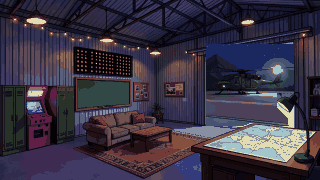
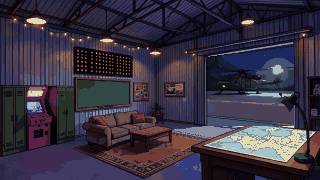
fix(heli-base): the view out of the gate fits the slanting gate, the boards lie on the slanted wall (doc 92 B1)
The outside view showed as a rectangle over the gate's slanting beam and the desk
lamp kept the room's old floodlit apron as a bright wedge in it. It now shows only in
the opening under the beam, with a pixel of shadow along the frame, and only the
lamp's head stays in front; the pictures keep their palette. The scoreboard and the
chalkboard are laid onto the wall towards its vanishing point (DockLayout.wall), and
wall columns are laid on whole device pixels, so the boards no longer turn
see-through on small windows (the jungle camp's too).

diff --git a/src/render/base/dock-wall.ts b/src/render/base/dock-wall.ts
@@ -1,8 +1,10 @@
 import type { AreaRect } from '../../data/base-areas';
+import type { WallTilt } from '../../data/base-docks';
 
 // Boards on a wall seen at an angle (doc 95): a board is drawn flat into a scratch canvas, then laid onto the picture's
-// wall column by column, each column a little shorter towards the far edge — at eye level a wall keeps its vertical
-// edges, so this is the wall's perspective without any 3-D.
+// wall column by column, each column a little shorter towards the far edge — a wall keeps its vertical edges, so this is
+// the wall's perspective without any 3-D. Shrunk evenly about the middle (doc 95), or towards the wall's vanishing point
+// when the eye is not level with the board (doc 92 B1: both edges of the helicopter base's scoreboard fall to the right).
 
 let flat: HTMLCanvasElement | null = null;
 
@@ -14,11 +16,23 @@ function scratchFor(w: number, h: number): CanvasRenderingContext2D | null {
   return flat.getContext('2d');
 }
 
-/** Draws `paint` into rect r on a wall whose right edge is `slant` × r.h shorter at the top and the bottom (0: flat). */
-export function onWall(ctx: CanvasRenderingContext2D, r: AreaRect, slant: number, paint: (g: CanvasRenderingContext2D, at: AreaRect) => void): void {
+/** Top and height of column i (0 … r.w − 1) of a board in rect r, its left edge at full size. */
+export function wallColumn(r: AreaRect, tilt: WallTilt | undefined, i: number): { y: number; h: number } {
+  if (!tilt) return { y: r.y, h: r.h };
+  if ('slant' in tilt) {
+    const inset = tilt.slant * r.h * ((i + 0.5) / r.w);
+    return { y: r.y + inset, h: r.h - 2 * inset };
+  }
+  const { x: vx, y: vy } = tilt.vanish;
+  const k = (vx - (r.x + i + 0.5)) / (vx - r.x);
+  return { y: vy + (r.y - vy) * k, h: r.h * k };
+}
+
+/** Draws `paint` into rect r on a wall seen at an angle (flat without a tilt). */
+export function onWall(ctx: CanvasRenderingContext2D, r: AreaRect, tilt: WallTilt | undefined, paint: (g: CanvasRenderingContext2D, at: AreaRect) => void): void {
   const k = Math.max(1, Math.abs(ctx.getTransform().a));
-  const g = slant === 0 ? null : scratchFor(Math.ceil(r.w * k), Math.ceil(r.h * k));
-  if (!g || !flat) {
+  const g = tilt ? scratchFor(Math.ceil(r.w * k), Math.ceil(r.h * k)) : null;
+  if (!tilt || !g || !flat) {
     paint(ctx, r);
     return;
   }
@@ -26,8 +40,25 @@ export function onWall(ctx: CanvasRenderingContext2D, r: AreaRect, slant: number
   g.clearRect(0, 0, flat.width, flat.height);
   g.setTransform(k, 0, 0, k, 0, 0);
   paint(g, { x: 0, y: 0, w: r.w, h: r.h });
-  for (let i = 0; i < r.w; i++) {
-    const inset = slant * r.h * ((i + 0.5) / r.w);
-    ctx.drawImage(flat, i * k, 0, k, r.h * k, r.x + i, r.y + inset, 1, r.h - 2 * inset);
+  layColumns(ctx, flat, k, r, tilt);
+}
+
+/** One device pixel wide columns on whole device pixels: a column of a logical pixel on a canvas scaled below 1 would
+ *  only half-cover its pixels and let the picture show through. */
+function layColumns(ctx: CanvasRenderingContext2D, src: HTMLCanvasElement, k: number, r: AreaRect, tilt: WallTilt): void {
+  const t = ctx.getTransform();
+  const x0 = Math.round(t.a * r.x + t.e);
+  const x1 = Math.round(t.a * (r.x + r.w) + t.e);
+  ctx.save();
+  ctx.setTransform(1, 0, 0, 1, 0, 0);
+  ctx.imageSmoothingEnabled = false;
+  for (let dx = x0; dx < x1; dx++) {
+    const u = (dx + 0.5 - t.e) / t.a - r.x; // the logical column under this device column's centre
+    const c = wallColumn(r, tilt, u - 0.5);
+    const top = Math.round(t.d * c.y + t.f);
+    const bottom = Math.round(t.d * (c.y + c.h) + t.f);
+    const sx = Math.min(src.width - 1, Math.max(0, Math.floor(u * k)));
+    if (bottom > top) ctx.drawImage(src, sx, 0, 1, r.h * k, dx, top, 1, bottom - top);
   }
+  ctx.restore();
 }

diff --git a/tests/unit/base-docks.test.ts b/tests/unit/base-docks.test.ts
@@ -2,6 +2,7 @@ import { describe, it, expect } from 'vitest';
 import { areaDef, areaIds, BASE_AREAS, baseAreas, baseLookOf } from '../../src/data/base-areas';
 import { CARRIER_AREAS, CARRIER_LAYOUT, HELI_LAYOUT, JUNGLE_LAYOUT, scaleAt, SEA_LAYOUT, SPACE_LAYOUT } from '../../src/data/base-docks';
 import { areaAt, arrivedAt, neighbour, walkerAt, walkerAtArea } from '../../src/game/base-hangar';
+import { wallColumn } from '../../src/render/base/dock-wall';
 
 // The home docks (doc 73): the base wears the look of the map the pilot came from; each look has its own geometry.
 
@@ -127,11 +128,43 @@ describe('Sea lounge (doc 93)', () => {
 
 describe('Jungle camp (doc 95)', () => {
   it('lays the boards onto the hut wall seen at an angle, the hut spots on one row', () => {
-    expect(JUNGLE_LAYOUT.slant).toBeGreaterThan(0);
-    expect(JUNGLE_LAYOUT.slant).toBeLessThan(0.2);
+    const tilt = JUNGLE_LAYOUT.wall;
+    if (!tilt || !('slant' in tilt)) throw new Error('the hut wall has a slant');
+    expect(tilt.slant).toBeGreaterThan(0);
+    expect(tilt.slant).toBeLessThan(0.2);
+    const r = JUNGLE_LAYOUT.slate;
+    const far = wallColumn(r, tilt, r.w - 1);
+    expect(far.y - r.y).toBeCloseTo(r.y + r.h - (far.y + far.h), 6); // shrunk evenly about the middle
     const jungle = baseAreas('jungle');
     const row = ['locker', 'photos', 'lab', 'ladder', 'chalk'] as const;
     for (const id of row) expect(areaDef(jungle, id).standY, id).toBe(520);
     for (const id of row) expect(areaDef(jungle, id).via, id).toBe(520); // up the track's edge, then along the hut
+  });
+});
+
+describe('Helicopter base boards on the slanted wall (doc 92 B1)', () => {
+  it('shrinks the scoreboard and the chalkboard towards the wall\'s vanishing point on the right', () => {
+    const tilt = HELI_LAYOUT.wall;
+    if (!tilt || !('vanish' in tilt)) throw new Error('the heli wall has a vanishing point');
+    const { board, slate } = HELI_LAYOUT;
+    expect(tilt.vanish.x).toBeGreaterThan(slate.x + slate.w); // off to the right, beyond both boards
+    expect(tilt.vanish.y).toBeGreaterThan(board.y + board.h); // eye level below the scoreboard …
+    expect(tilt.vanish.y).toBeLessThan(slate.y + slate.h); // … and across the chalkboard
+    const near = wallColumn(board, tilt, 0);
+    expect(near.y).toBeCloseTo(board.y, 0);
+    expect(near.h).toBeCloseTo(board.h, 0);
+    const far = wallColumn(board, tilt, board.w - 1);
+    expect(far.h).toBeLessThan(board.h * 0.85);
+    expect(far.y).toBeGreaterThan(215); // the picture's scoreboard top drops to about y 220 at its right end
+    expect(far.y).toBeLessThan(228);
+    const slateFar = wallColumn(slate, tilt, slate.w - 1);
+    expect(slateFar.y).toBeGreaterThan(slate.y); // above eye level the top drops …
+    expect(slateFar.y + slateFar.h).toBeLessThan(slate.y + slate.h); // … below it the bottom rises
+    expect(far.y + far.h).toBeLessThan(slateFar.y + 8); // the boards don't run into each other
+  });
+
+  it('draws a flat wall unchanged', () => {
+    const r = { x: 10, y: 20, w: 30, h: 40 };
+    expect(wallColumn(r, undefined, 29)).toEqual({ y: 20, h: 40 });
   });
 });

diff --git a/src/data/base-docks.ts b/src/data/base-docks.ts
@@ -10,6 +10,12 @@ import { PILOT_FLOOR_Y, type AreaRect, type AreaTable, type BaseAreaDef, type Ba
 const area = (id: BaseAreaId, row: BaseAreaDef['row'], hot: AreaRect, plate: { x: number; y: number }, standX: number, deep?: { y: number; via?: number }): BaseAreaDef =>
   ({ id, row, hot, plate, standX, ...(deep ? { standY: deep.y, via: deep.via ?? standX } : {}) });
 
+/**
+ * How a wall with boards on it is seen: its far (right) edge `slant` × the board's height shorter at the top and at the
+ * bottom, evenly about the middle (doc 95), or running away to a vanishing point in logical px (doc 92 B1).
+ */
+export type WallTilt = { slant: number } | { vanish: { x: number; y: number } };
+
 export interface DockLayout {
   /** The picture's scoreboard: world 1's flip board covers it, `boardRows` rows of tiles (the ladder's three, blank
    *  rows below on a tall board). */
@@ -17,9 +23,9 @@ export interface DockLayout {
   boardRows: number;
   /** The picture's chalkboard: world 1's framed chalkboard covers it. */
   slate: AreaRect;
-  /** Boards on a wall seen at an angle (doc 95): the flip board's and the chalkboard's right edges are this fraction of
-   *  their height shorter at the top and at the bottom; they are laid onto the wall column by column. */
-  slant?: number;
+  /** Boards on a wall seen at an angle (doc 95, doc 92 B1): the flip board and the chalkboard are laid onto the wall
+   *  column by column; flat when missing. */
+  wall?: WallTilt;
   /** The TV cart's footprint (left, floor line); null where the picture has its own TV (`picturedTv`). */
   tv: { x: number; base: number } | null;
   /** The picture's own TV (doc 93): its screen, where the game plays the TV's picture, and the video recorder's clock. */
@@ -86,6 +92,8 @@ export const HELI_LAYOUT: DockLayout = {
   board: { x: 300, y: 190, w: 226, h: 112 },
   boardRows: 3,
   slate: { x: 300, y: 312, w: 300, h: 126 }, // world 1's chalkboard over the picture's and the first cork board, as wide as it wants
+  // The wall runs away to the right: the picture's scoreboard and chalkboard edges meet about here (doc 92 B1).
+  wall: { vanish: { x: 1400, y: 355 } },
   tv: { x: 660, base: 522 },
   neon: { x: 104, y: 296, w: 104, h: 40 },
   globe: null,
@@ -172,7 +180,7 @@ export const JUNGLE_LAYOUT: DockLayout = {
   board: { x: 144, y: 216, w: 168, h: 74 },
   boardRows: 3,
   slate: { x: 128, y: 314, w: 192, h: 126 },
-  slant: 0.05,
+  wall: { slant: 0.05 },
   tv: null,
   picturedTv: { screen: { x: 1134, y: 450, w: 60, h: 80 }, clock: { x: 1150, y: 576 } },
   neon: { x: 8, y: 228, w: 104, h: 34 },

diff --git a/src/render/base/dock.ts b/src/render/base/dock.ts
@@ -150,8 +150,8 @@ export function drawDock(ctx: CanvasRenderingContext2D, look: DockLook, v: Hanga
   ctx.restore();
   const L = LAYOUT[look];
   const rows = L.boardRows > v.board.length ? [...v.board, ...Array<string>(L.boardRows - v.board.length).fill('')] : v.board;
-  onWall(ctx, L.slate, L.slant ?? 0, (g, at) => drawDockChalkboard(g, at, v.chalk.cells, v.chalk.version));
-  onWall(ctx, L.board, L.slant ?? 0, (g, at) => drawDockFlipBoard(g, at, rows, v.t));
+  onWall(ctx, L.slate, L.wall, (g, at) => drawDockChalkboard(g, at, v.chalk.cells, v.chalk.version));
+  onWall(ctx, L.board, L.wall, (g, at) => drawDockFlipBoard(g, at, rows, v.t));
   drawCast(ctx, gr.G, { t: v.t, walker: v.walker, face: v.face, crew: false, scale: scaleAt(L, v.walker.y) });
   const front = img && L.front ? frontLayer(look, file, img, gr) : null; // the pilot walks behind it (doc 92)
   if (front) drawFront(ctx, front, gr);

diff --git a/dev/heli-plates.py b/dev/heli-plates.py
@@ -6,9 +6,12 @@ Usage: python3 -I dev/heli-plates.py <room-day> <room-evening> <room-night> <out
 The rooms are 1280 x 720 renders of the "Top Gun pixel scene" workflows' pixel branch (the night room K2 with its chalkboard
 widened, day and evening its frozen edits): each is sampled at its art-pixel centres onto the 320 x 180 grid. The outside
 views are pixel-branch renders of the view out of the gate (K1's, cut out of it; day and evening its frozen edits), on
-their own art grid: each is box-scaled into the gate (GATE, art px). Each picture is quantized to 48 colours of its own
-(median cut, no dither) and saved as heli-<light>.png. heli-front.png marks the map table and its lamp (white): the pixels
-the game draws again over the pilot.
+their own art grid: each is box-scaled into the gate's box (GATE, art px) but shows only in the opening — under the
+slanting beam (BEAM, measured on the night room), between the posts — with a pixel of shadow along the beam and the left
+post. In front of it only the desk lamp's head stays the room's (the night room's dark pixels in the lamp's outline), not
+the room's own floodlit apron around it. Each picture is quantized to 48 colours of its own (median cut, no dither) and
+saved as heli-<light>.png. heli-front.png marks the map table and its lamp (white): the pixels the game draws again over
+the pilot.
 """
 import os
 import sys
@@ -17,7 +20,10 @@ from PIL import Image, ImageDraw
 
 GRID = (320, 180)
 COLOURS = 48
-GATE = (206, 44, 294, 126)  # the open gate's opening, art px (x0, y0, x1, y1)
+GATE = (206, 44, 294, 126)  # the box the outside view is scaled into, art px (x0, y0, x1, y1)
+# The beam over the gate slants: its lower edge runs from (206, 57) at the left post to (292, 45) at the right (doc 92 B1).
+BEAM = ((206, 57), (292, 45))
+DARK = 70  # the lamp head's pixels are darker than this (luma)
 LIGHTS = ('day', 'evening', 'night')
 # The map table's top and front, and the lamp on it, as polygons in logical px (1280 x 720).
 TABLE = [(768, 590), (1000, 492), (1270, 520), (1280, 520), (1280, 720), (786, 720), (768, 640)]
@@ -29,15 +35,62 @@ def art(path, size=GRID):
     return im.resize(size, Image.NEAREST, box=(0, 0, size[0] * 4, size[1] * 4))
 
 
-def build(room_path, out_path, keep, dest):
+def beam_y(x):
+    (ax, ay), (bx, by) = BEAM
+    return round(ay + (by - ay) * (x - ax) / (bx - ax))
+
+
+def opening():
+    """The gate's opening (white): under the slanting beam, between the posts, down to the threshold."""
+    m = Image.new('L', GRID, 0)
+    d = ImageDraw.Draw(m)
+    x0, _, x1, y1 = GATE
+    for x in range(x0, x1):
+        d.line([(x, beam_y(x)), (x, y1 - 1)], fill=255)
+    return m
+
+
+def lamp_head(night_room, gate):
+    """The desk lamp's head and arm where they stand in front of the opening: the night room's dark pixels there."""
+    outline = Image.new('L', GRID, 0)
+    ImageDraw.Draw(outline).polygon([(x / 4, y / 4) for x, y in LAMP], fill=255)
+    dark = night_room.convert('L').point(lambda v: 255 if v < DARK else 0)
+    return Image.composite(dark, Image.new('L', GRID, 0), Image.composite(outline, Image.new('L', GRID, 0), gate))
+
+
+def shaded(view):
+    """The view with a pixel of shadow under the beam and inside the left post, so it sits behind the frame."""
+    out = view.copy()
+    px = out.load()
+    x0, y0, x1, _ = GATE
+    for x in range(x0, x1):
+        for dy, k in ((0, 0.55), (1, 0.8)):
+            y = beam_y(x) - y0 + dy
+            r, g, b = px[x - x0, y]
+            px[x - x0, y] = (int(r * k), int(g * k), int(b * k))
+    for y in range(beam_y(x0) - y0, out.height):
+        for dx, k in ((0, 0.6), (1, 0.85)):
+            r, g, b = px[dx, y]
+            px[dx, y] = (int(r * k), int(g * k), int(b * k))
+    return out
+
+
+def build(room_path, out_path, gate, head, dest):
     img = art(room_path)
     x0, y0, x1, y1 = GATE
     view = Image.open(out_path).convert('RGB')
     view = view.resize((view.width // 8, view.height // 8), Image.NEAREST, box=(0, 0, view.width // 8 * 8, view.height // 8 * 8)) if view.width > 200 else view
+    fitted = view.resize((x1 - x0, y1 - y0), Image.BOX)
+    # The palette is the one the first version had (the view's whole box pasted, the lamp's outline kept), so the room
+    # keeps its colours exactly; only the opening changes.
+    first = img.copy()
+    first.paste(fitted, (x0, y0))
+    palette = Image.composite(img, first, front_mask()).quantize(colors=COLOURS, method=Image.Quantize.MEDIANCUT, dither=Image.Dither.NONE)
     outside = img.copy()
-    outside.paste(view.resize((x1 - x0, y1 - y0), Image.BOX), (x0, y0))
-    img = Image.composite(img, outside, keep)  # the lamp in front of the gate stays the room's
-    img.quantize(colors=COLOURS, method=Image.Quantize.MEDIANCUT, dither=Image.Dither.NONE).save(dest, optimize=True)
+    outside.paste(shaded(fitted), (x0, y0))
+    shows = Image.composite(Image.new('L', GRID, 0), gate, head)  # the opening, minus the lamp head in front of it
+    img = Image.composite(outside, img, shows)
+    img.quantize(palette=palette, dither=Image.Dither.NONE).save(dest, optimize=True)
     print(dest, os.path.getsize(dest), 'bytes')
 
 
@@ -53,8 +106,10 @@ if __name__ == '__main__':
     rooms, outs, out_dir = sys.argv[1:4], sys.argv[4:7], sys.argv[7]
     os.makedirs(out_dir, exist_ok=True)
     keep = front_mask()
+    gate = opening()
+    head = lamp_head(art(rooms[2]), gate)
     for light, r, o in zip(LIGHTS, rooms, outs):
-        build(r, o, keep, os.path.join(out_dir, f'heli-{light}.png'))
+        build(r, o, gate, head, os.path.join(out_dir, f'heli-{light}.png'))
     dest = os.path.join(out_dir, 'heli-front.png')
     keep.save(dest, optimize=True)
     print(dest, os.path.getsize(dest), 'bytes')

diff --git a/.mdd/docs/92-heli-base-picture.md b/.mdd/docs/92-heli-base-picture.md
@@ -11,6 +11,7 @@ source_files:
   - src/render/base/dock.ts
   - src/render/base/dock-carrier.ts
   - src/render/base/dock-front.ts
+  - src/render/base/dock-wall.ts
   - src/game/base-hangar.ts
   - src/render/base/cast.ts
   - src/scenes/hangar-base.ts
@@ -26,7 +27,7 @@ test_files:
   - tests/unit/base-docks.test.ts
   - tests/unit/base-hangar.test.ts
 data_flow: reads-existing
-last_synced: 2026-11-08
+last_synced: 2026-11-09
 status: complete
 phase: all
 mdd_version: 11
@@ -61,7 +62,12 @@ table in the foreground go together.
   board; the second cork board is the picture wall.
 - **Outside the gate** is K1's view — the helicopter on the lit helipad, mountains, moon and stars — cut out of K1 and
   pasted into K2's gate (K2's own helicopter had two tails). Evening and day are that view relit with the frozen edit, so
-  the helicopter and the mountains stay.
+  the helicopter and the mountains stay. **Only in the opening** (B1, 2026-11-09): the beam over the gate slants — its
+  lower edge runs from (206, 57) at the left post to (292, 45) at the right, art px, measured on the night room — so the
+  view shows only under it and between the posts, with a pixel of shadow along the beam and the left post; in front of it
+  only the desk lamp's head and arm stay the room's (the night room's dark pixels in the lamp's outline), no longer the
+  room's floodlit apron around it, which had cut a bright wedge into the view. The pictures keep their palette (the first
+  version's), so the room outside the opening keeps its colours.
 - **Evening and day** of the room: the frozen edit of the night room (denoise 0.75), the outside pasted in per light. On
   the M1 the frozen edit runs at 640 × 360 (half size; the art grid is 320 × 180 anyway): at 1280 × 720 it swapped for
   over 45 minutes, at half size it takes about 7.
@@ -72,6 +78,12 @@ table in the foreground go together.
 
 - Map 3's base is now the look `heli` (`baseLookOf(3)`), drawn like the other picture looks (doc 73): world 1's flip board
   and chalkboard over the picture's, the TV cart and the joystick neon in code, the brackets, no name plates.
+- **Boards on the slanted wall** (B1): the back wall runs away to the right and the eye is below the scoreboard, so both
+  of its edges fall to the right — the scoreboard's and the chalkboard's edges in the picture meet at about (1400, 355).
+  The flip board and the chalkboard are laid onto the wall towards that vanishing point (`DockLayout.wall`,
+  `{ vanish }`; `wallColumn`, `onWall`, `dock-wall.ts`): each column shrinks towards it, the left edges at full size.
+  Columns are laid one device pixel wide on whole device pixels; a column of one logical pixel on a canvas scaled below
+  1 only half-covered its pixels and let the picture show through the boards (the jungle camp's too).
 - **Areas:** FUN MISSIONS the arcade, TV the cart, LOCKER the lockers, PICTURE WALL the cork board, LOADOUT the open gate
   with the helicopter, LADDER the scoreboard, CHALKBOARD the chalkboard, **EXIT · MAP the map table**.
 - **Walk-behind:** the map table stands in front of the pilot's walk line. Its pixels (the mask `heli-front.png`, white =
@@ -107,3 +119,13 @@ table in the foreground go together.
 - No look needs a walk-behind mask besides the helicopter base's map table: the lanes and spots keep clear of the couches,
   the tables and the TV cart (the cast is drawn over the picture and the cart).
 - The **jungle base** has been reworked as the jungle camp with its own depth (doc 95: horizon 370, pilot 0.95).
+
+## Known Issues
+
+(none)
+
+## Bugs
+
+| ID | Description | Status | Fixed In | Reported | Fixed |
+|----|-------------|--------|----------|----------|-------|
+| B1 | The view out of the gate is a rectangle pasted into a gate whose top beam slants: its upper-left corner sticks out over the beam, it looks pasted in, and the desk lamp's kept light cone (the room's old floodlit floor) cuts into it — in all three lights. The scoreboard and the chalkboard are drawn in full front view on a wall seen at an angle. | Fixed | feat/world-intros | 2026-11-09 | 2026-11-09 |

diff --git a/.mdd/docs/95-jungle-camp-picture.md b/.mdd/docs/95-jungle-camp-picture.md
@@ -60,8 +60,9 @@ second round (L, M) the owner took **L121** — *"can you use the chalkboard at 
   window, LADDER the scoreboard, CHALKBOARD the chalkboard, **EXIT · MAP the map table**. The code-drawn globe is gone.
 - **Boards on a slanted wall:** the hut's wall is seen at an angle, so the far edges of its boards are shorter. World 1's
   flip board and chalkboard are drawn flat into a scratch canvas and laid onto the wall column by column, each column a
-  little shorter towards the right (`DockLayout.slant`, the fraction of the height at the far edge; `onWall`,
-  `dock-wall.ts`). A wall at eye level keeps its vertical edges, so no 3-D is needed. The other looks have no slant.
+  little shorter towards the right (`DockLayout.wall = { slant }`, the fraction of the height at the far edge; `onWall`,
+  `dock-wall.ts`). A wall keeps its vertical edges, so no 3-D is needed. The helicopter base's wall runs away to a
+  vanishing point instead (doc 92 B1); the other looks are flat.
 - **The TV** is the picture's own (`picturedTv`, doc 93).
 - **Depth** (doc 92): horizon 370, the pilot 0.95 on the front line, which runs behind the board-game table's corner, the
   map table and the TV (all walk-behind). The hut's spots — the scoreboard, the chalkboard, the photos, the lockers, the
